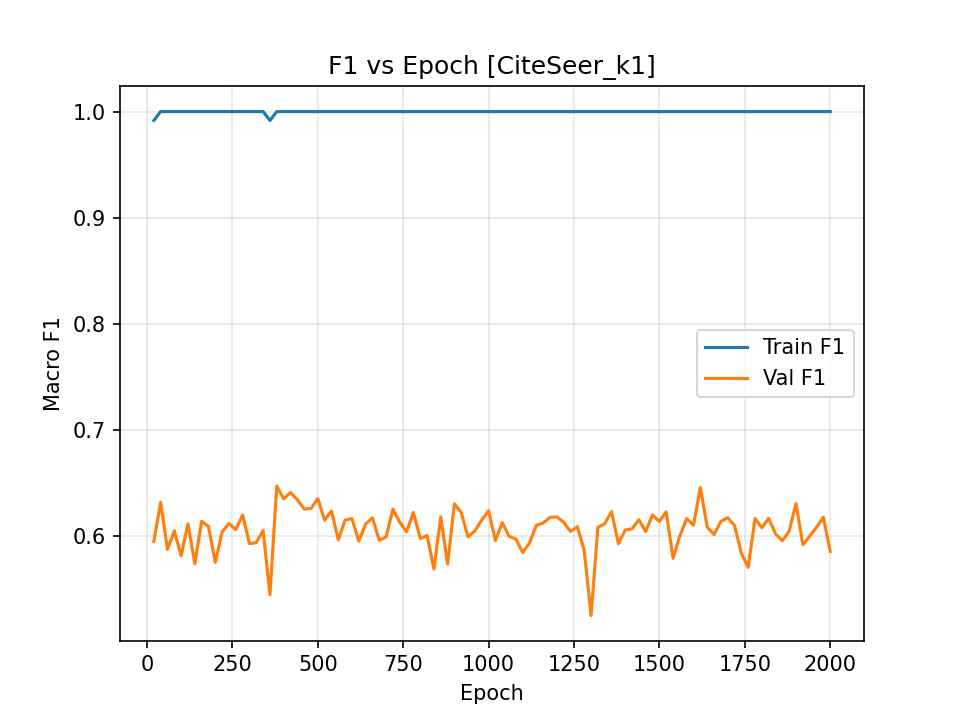
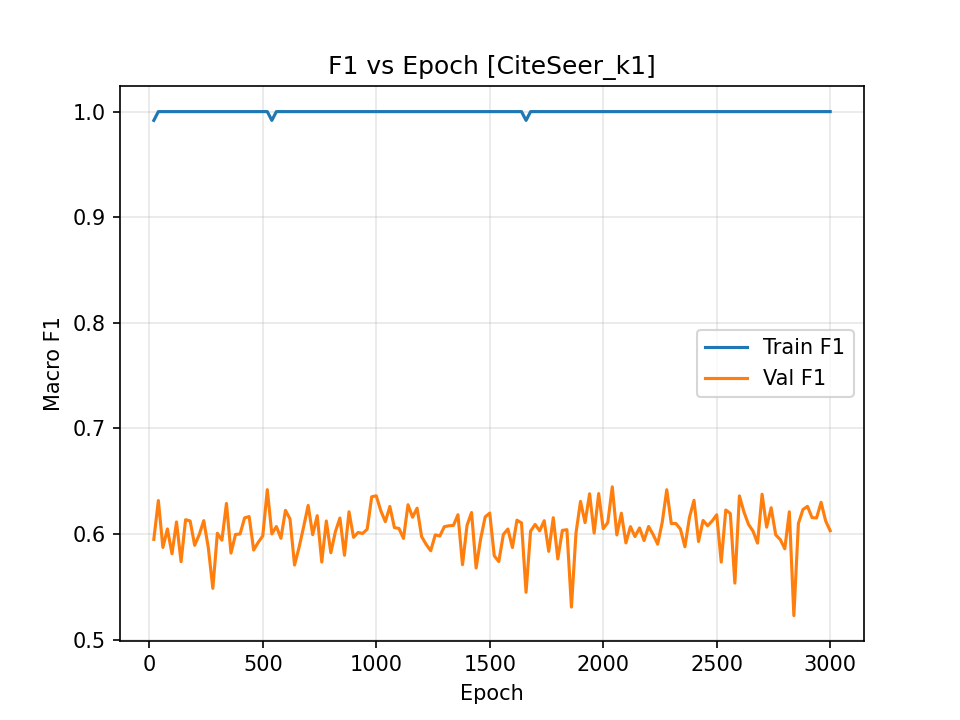
v2 final: dropout 0.5, hidden_dim 128, seed 42, 3000 epochs

diff --git a/run.py b/run.py
@@ -62,7 +62,7 @@ def evaluate(model, data, criterion):
 
  # ── Training ──────────────────────────────────────────────────────────────────
  
-def train(data, k, epochs=2000, hidden_dim=128, lr=0.01, weight_decay=5e-4, seed=42):
+def train(data, k, epochs=3000, hidden_dim=128, lr=0.01, weight_decay=5e-4, seed=42):
     torch.manual_seed(seed)
     torch.cuda.manual_seed(seed)
     device = torch.device('cuda' if torch.cuda.is_available() else 'cpu')
